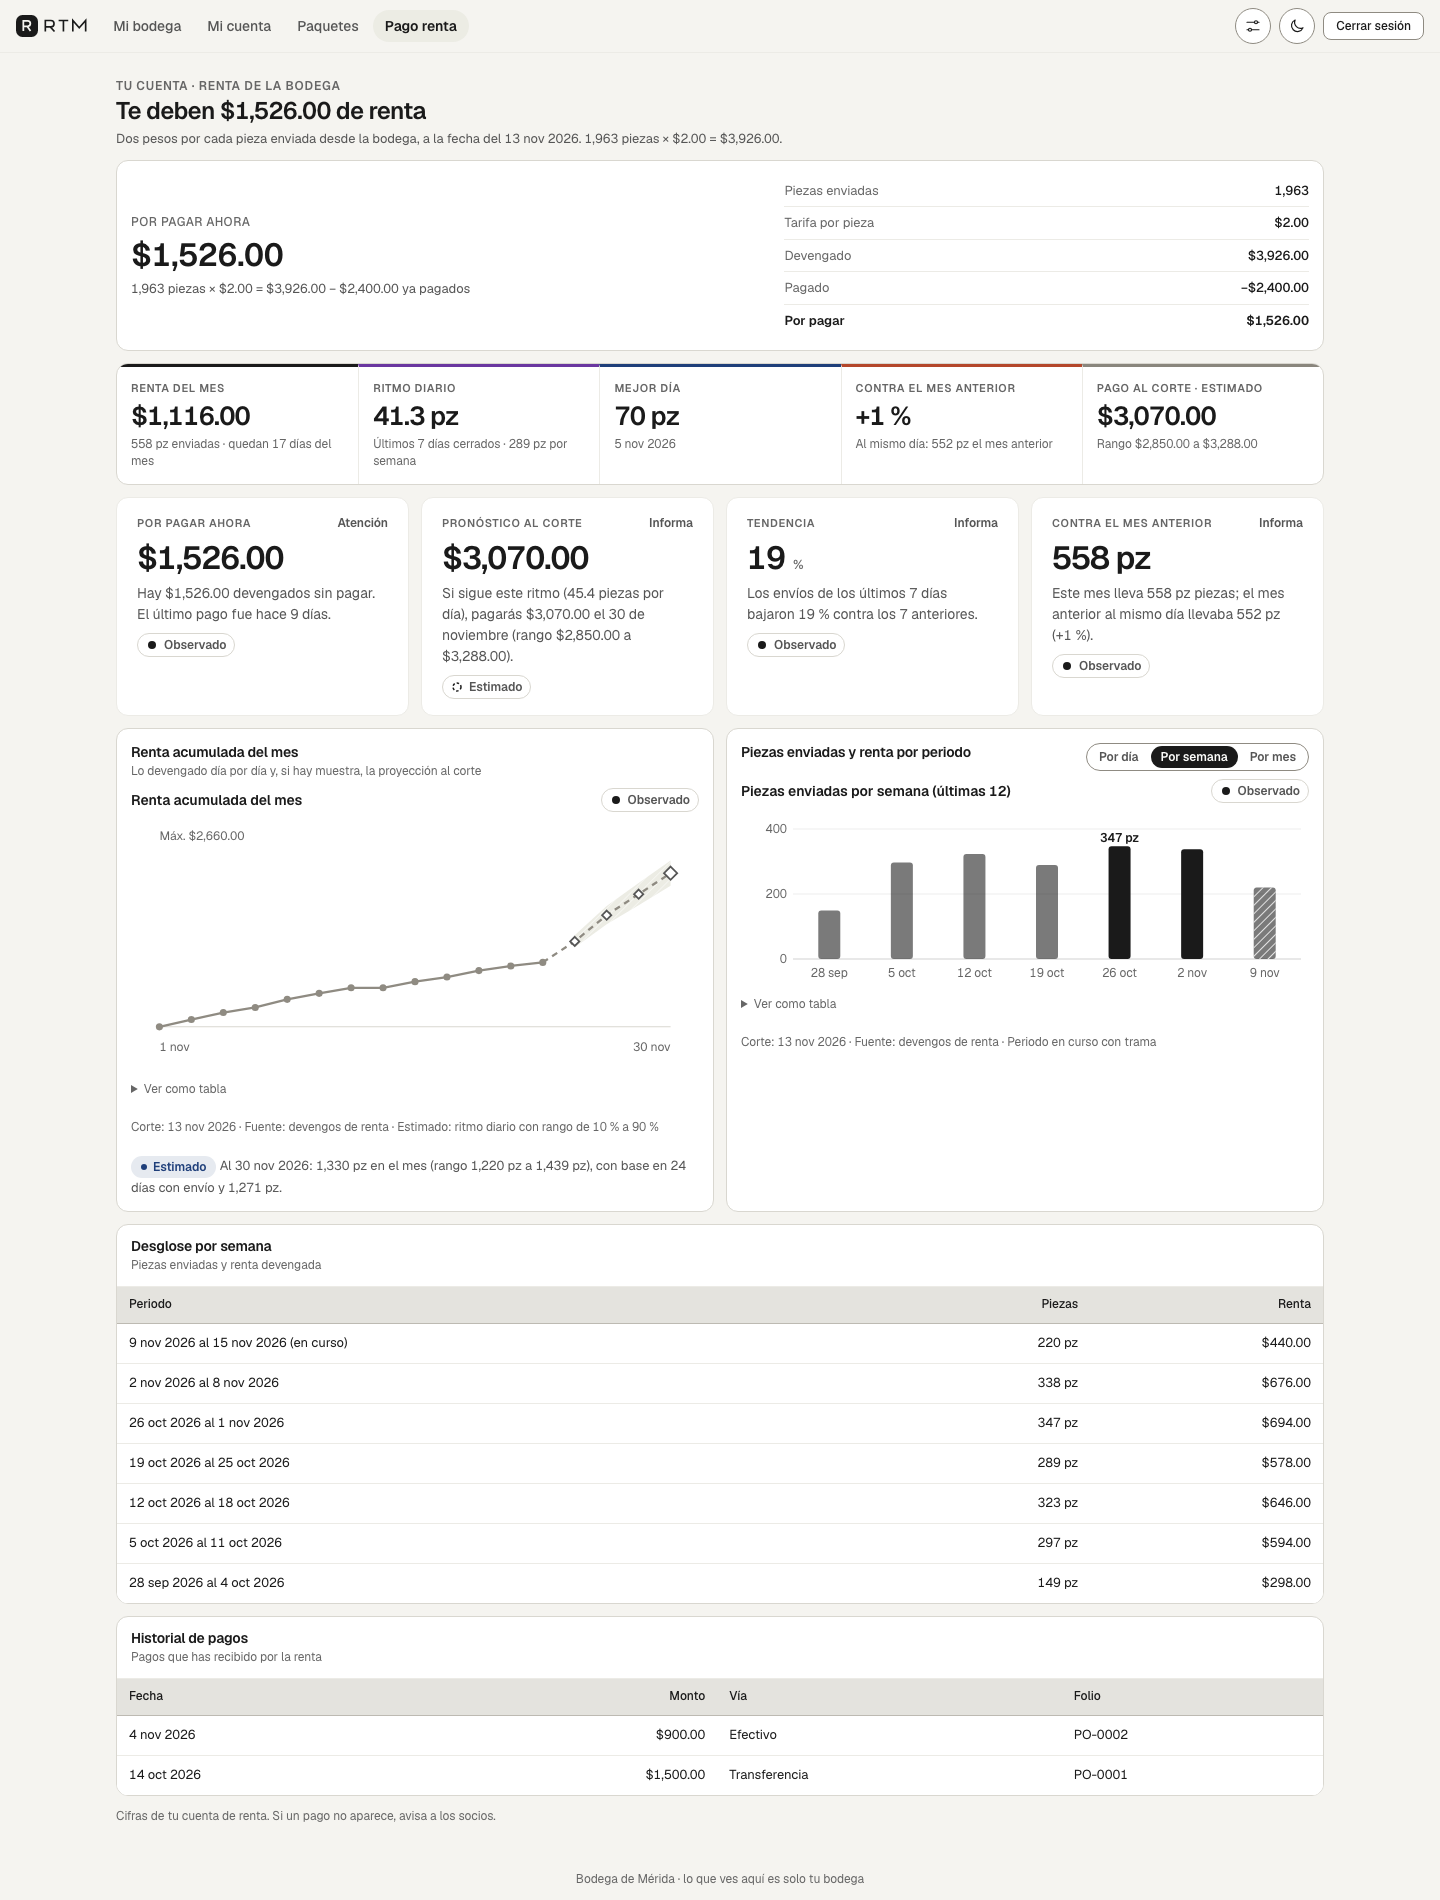
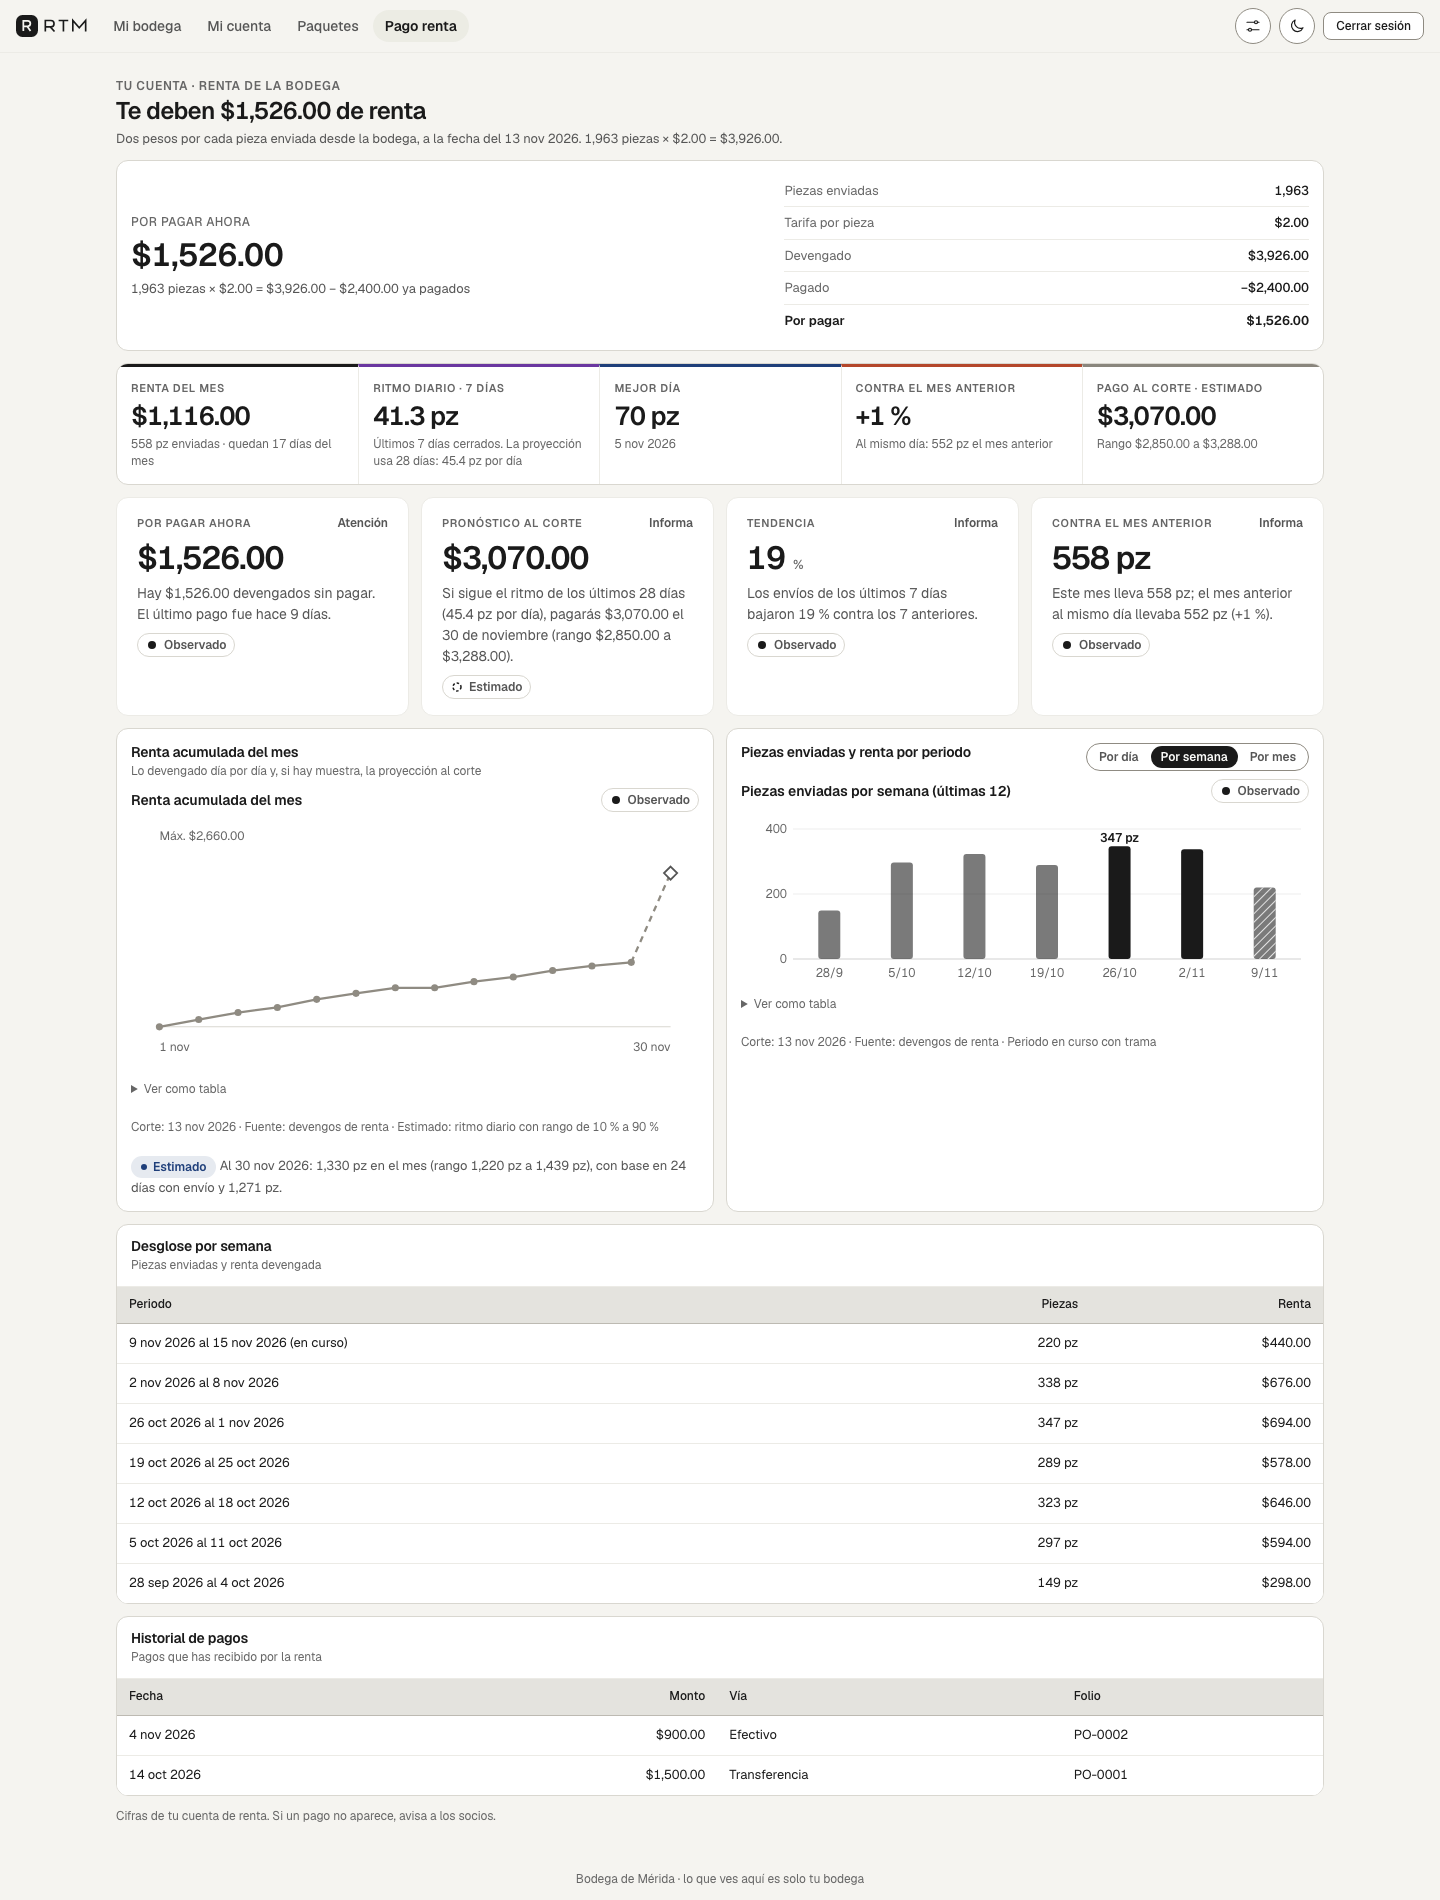
fix(renta): grafica semanal de 6 semanas para que el eje no se pegue en 390 px; ultimo pago de hoy

diff --git a/src/ui/pago-renta/panel.tsx b/src/ui/pago-renta/panel.tsx
@@ -15,7 +15,7 @@ import { ColumnasPiezas, LineaRentaMes } from './graficas';
 
 const m = (c: bigint, signo = false) => formatearMoneda(c, signo ? { conSigno: true } : {});
 const ETIQUETA_PASO: Record<Paso, string> = { dia: 'Por día', semana: 'Por semana', mes: 'Por mes' };
-const TITULO_PASO: Record<Paso, string> = { dia: 'Piezas enviadas por día (últimos 30 días)', semana: 'Piezas enviadas por semana (últimas 12)', mes: 'Piezas enviadas por mes (últimos 12)' };
+const TITULO_PASO: Record<Paso, string> = { dia: 'Piezas enviadas por día (últimos 30 días)', semana: 'Piezas enviadas por semana (últimas 6)', mes: 'Piezas enviadas por mes (últimos 12)' };
 
 interface Props {
   panel: PanelRenta;
@@ -37,7 +37,9 @@ export function PanelPagoRenta({ panel, modo, paso, ruta, acciones, accionPago }
   const sinNada = e.piezas === 0 && pagos.length === 0;
   const cubetas = agruparPorPeriodo(serie, e.hoy, paso);
   const visibles = desdePrimerMovimiento(cubetas);
-  const conDato = visibles.filter((c) => c.piezas !== 0).length;
+  // La grafica muestra las ultimas 6 semanas (con mas, las etiquetas del eje se pegan en 390 px); la tabla de abajo lleva las 12.
+  const paraGrafica = paso === 'semana' ? visibles.slice(-6) : visibles;
+  const conDato = paraGrafica.filter((c) => c.piezas !== 0).length;
   const acumulado = acumuladoDelMes(serie, e.hoy, proy);
   const observados = acumulado.filter((p) => p.tipo === 'observado').length;
   const quien = socio ? 'a Omar' : 'a ti';
@@ -159,7 +161,7 @@ export function PanelPagoRenta({ panel, modo, paso, ruta, acciones, accionPago }
               titulo={TITULO_PASO[paso]}
               descripcion={`${TITULO_PASO[paso]}. Total de la ventana: ${formatearPiezas(cubetas.reduce((s, c) => s + c.piezas, 0))}.`}
               pie={`Corte: ${etiquetaFecha(e.hoy)} · Fuente: devengos de renta · Periodo en curso con trama`}
-              datos={visibles.map((c) => ({ id: c.id, etiqueta: c.etiqueta, valor: c.piezas, texto: formatearPiezas(c.piezas), parcial: c.parcial, detalle: c.parcial ? 'Periodo en curso' : undefined }))}
+              datos={paraGrafica.map((c) => ({ id: c.id, etiqueta: c.etiqueta, valor: c.piezas, texto: formatearPiezas(c.piezas), parcial: c.parcial, detalle: c.parcial ? 'Periodo en curso' : undefined }))}
             />
           ) : (
             <p className="a3-grafica-vacia"><strong>Pocos datos para hablar de esto</strong>Hay {conDato} {conDato === 1 ? 'periodo' : 'periodos'} con envíos; con dos o más se dibujan las columnas.</p>

diff --git a/src/dominio/pago-renta/calculos.ts b/src/dominio/pago-renta/calculos.ts
@@ -156,7 +156,7 @@ export function insights(e: EstadoRenta, proy: Proyeccion, est: Estadisticas): I
   if (e.a_favor_cent > 0n) {
     r.push({ id: 'a-favor', etiqueta: 'Anticipo a favor de Omar', frase: `Se pagaron ${m(e.a_favor_cent)} de más; se absorben solos con la renta de los próximos envíos.`, severidad: 'Informa', procedencia: 'observado', cifra: { valor: Number(e.a_favor_cent), tipo: 'moneda' } });
   } else if (e.por_pagar_cent > 0n) {
-    const sinPago = est.ultimoPago === null ? 'Todavía no se ha registrado ningún pago de renta.' : `El último pago fue hace ${est.ultimoPago.hace} ${est.ultimoPago.hace === 1 ? 'día' : 'días'}.`;
+    const sinPago = est.ultimoPago === null ? 'Todavía no se ha registrado ningún pago de renta.' : (est.ultimoPago.hace === 0 ? 'El último pago fue hoy.' : `El último pago fue hace ${est.ultimoPago.hace} ${est.ultimoPago.hace === 1 ? 'día' : 'días'}.`);
     r.push({ id: 'por-pagar', etiqueta: 'Por pagar ahora', frase: `Hay ${m(e.por_pagar_cent)} devengados sin pagar. ${sinPago}`, severidad: est.ultimoPago === null || est.ultimoPago.hace > 30 ? 'Acción' : 'Atención', procedencia: 'observado', cifra: { valor: Number(e.por_pagar_cent), tipo: 'moneda' } });
   } else {
     r.push({ id: 'al-corriente', etiqueta: 'Cuenta al corriente', frase: 'Todo lo devengado está pagado.', severidad: 'Informa', procedencia: 'observado', cifra: { valor: 0, tipo: 'moneda' } });
